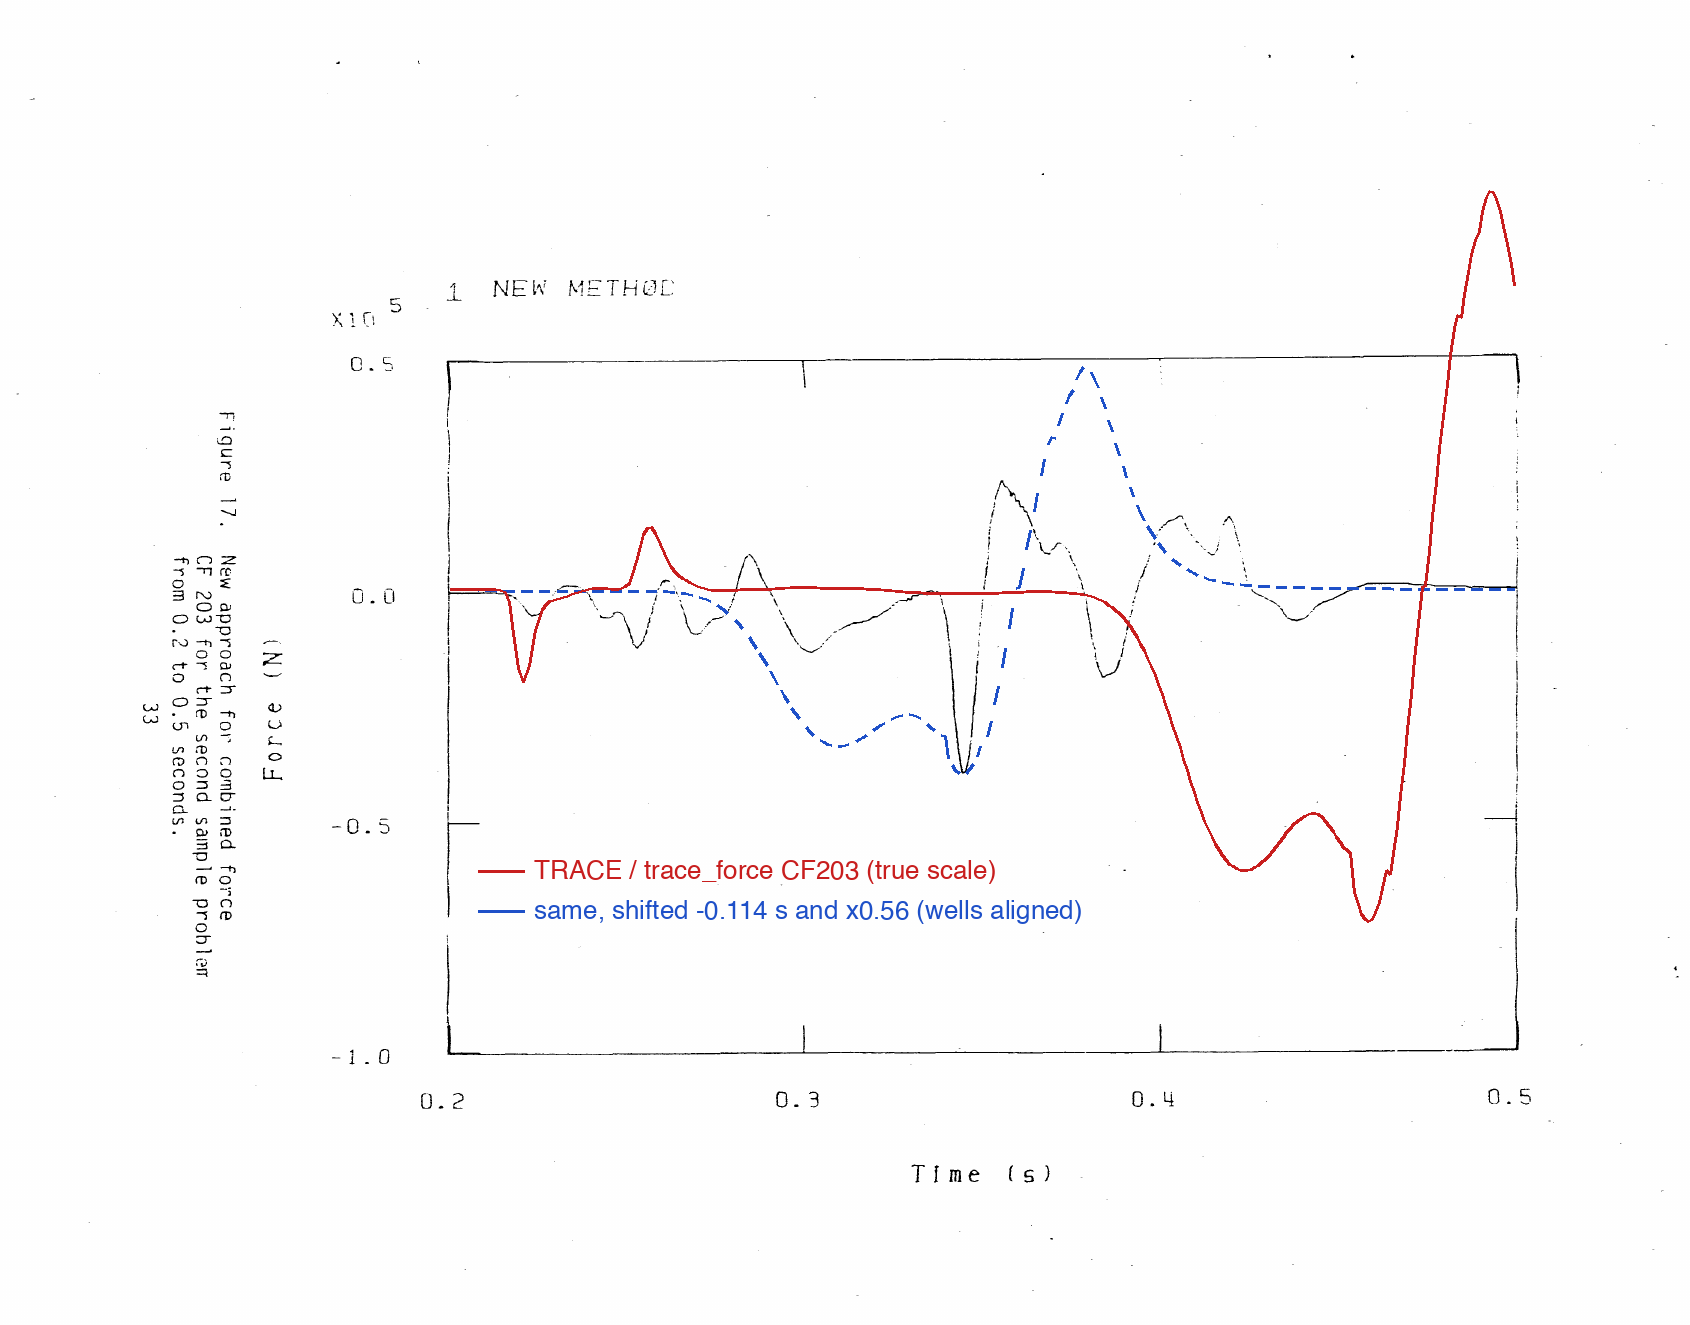
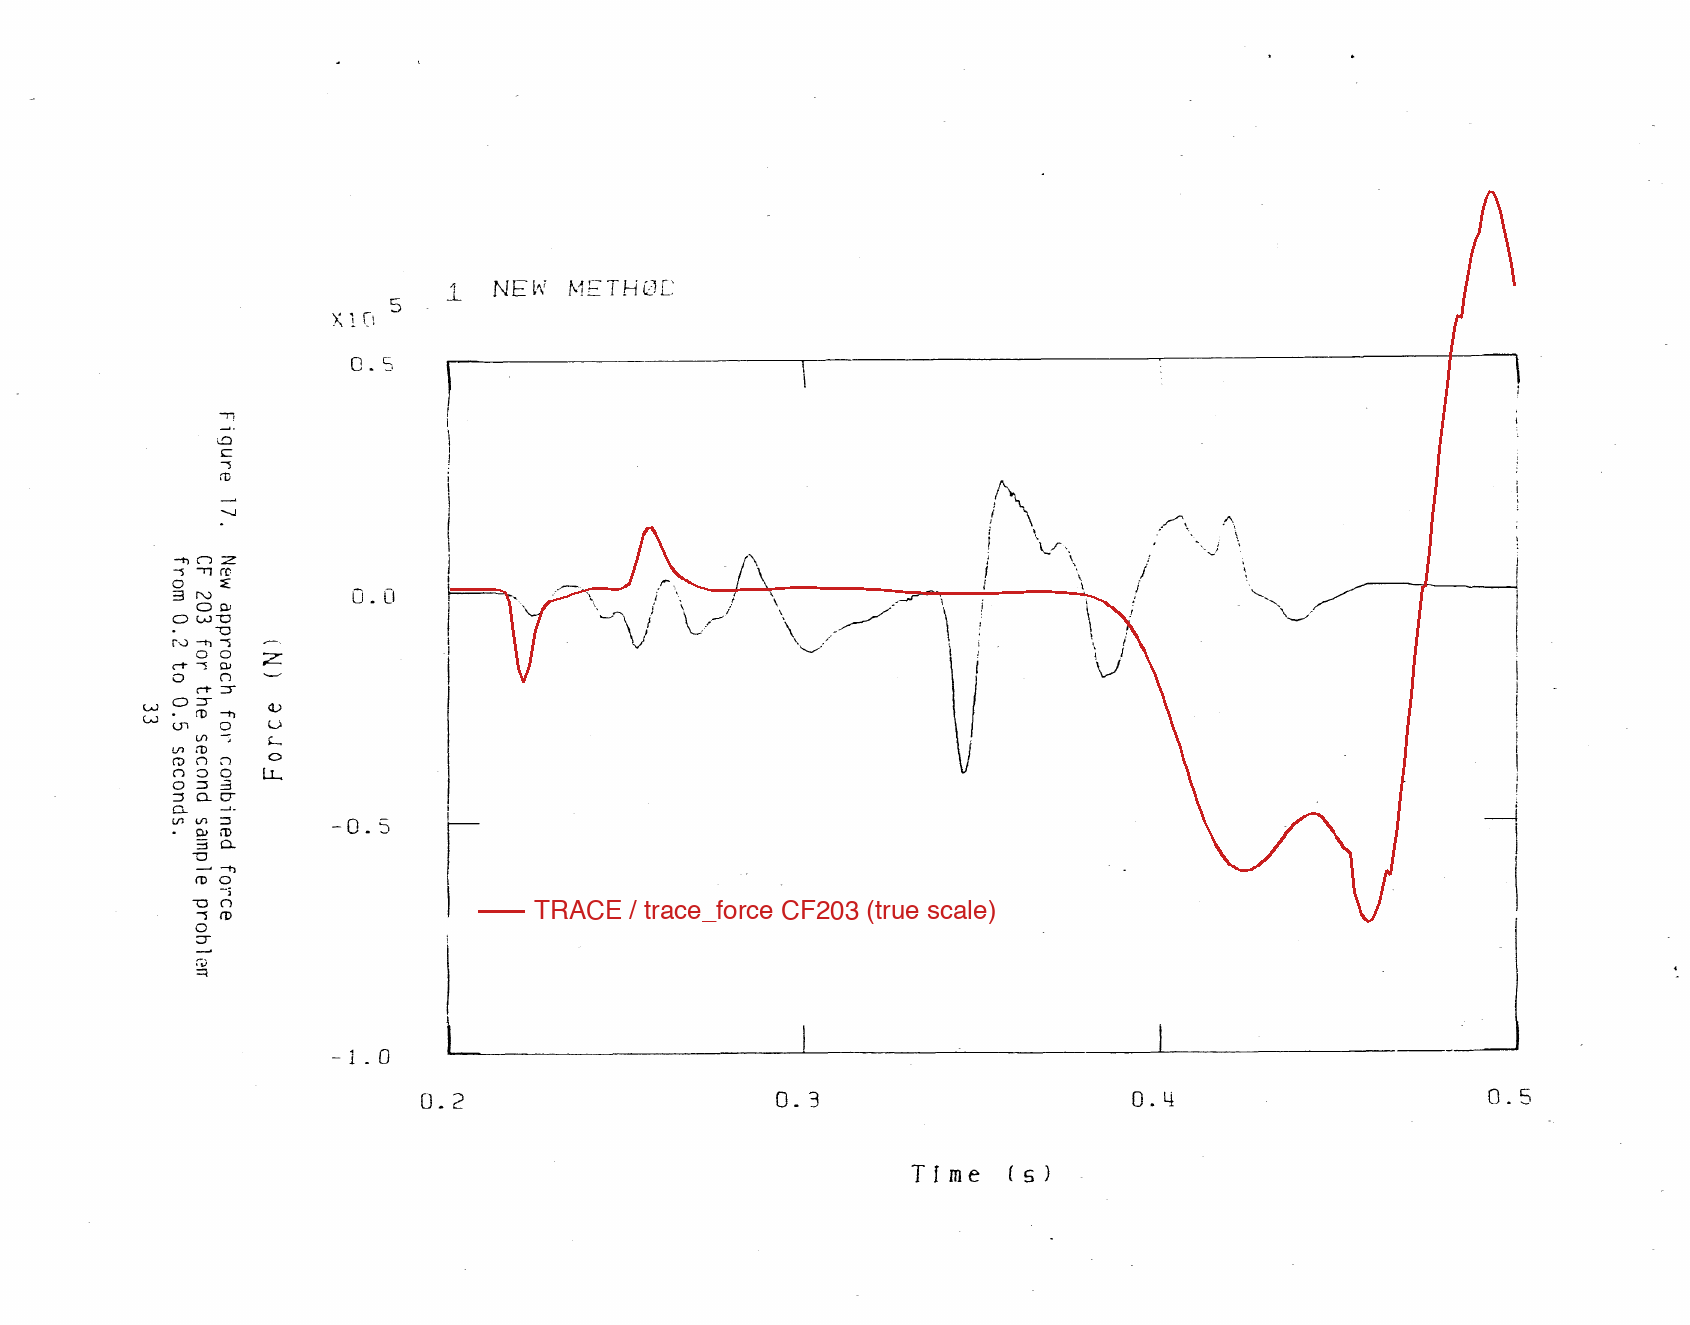
Show only the true-scale trace in the Figure 17 overlay
The shifted-and-scaled companion trace read as if the comparison
needed help. The overlay now draws the computed CF203 exactly as it
is, in true newtons on the reference's calibrated axes - the ~0.11 s
lag, the ~2x magnitudes, and the broader well are all visible
directly, with the positive kick rising past the 1990 frame.

Changed region(s): [[0.3077, 0.6498, 0.6462, 0.7117]]

diff --git a/test-validation/overlay_VAL_005W_fig17.py b/test-validation/overlay_VAL_005W_fig17.py
@@ -3,12 +3,9 @@
 
 Renders page 40 of the R5FORCE manual (report p. 33: CF203, new/Watkins
 method, second sample problem, 0.2-0.5 s), calibrates its plot frame, and
-draws the computed CF203 from VAL_005W.th on top:
-
-  - solid red  : computed force, true scale on the figure's own axes
-                 (the positive peak rises above the 1990 frame, honestly);
-  - dashed blue: the same trace shifted -0.114 s and scaled x0.557 so the
-                 deepest wells coincide - the shape comparison.
+draws the computed CF203 from VAL_005W.th on top in solid red, at true
+scale on the figure's own axes - no shifting, no scaling. The positive
+peak rises above the 1990 frame, honestly.
 
 Frame calibration was measured from the 150-dpi render: pixel box
 (448, 359)-(1516, 1052) maps to (0.2 s, +0.5E5 N)-(0.5 s, -1.0E5 N),
@@ -39,12 +36,6 @@ X0_PX, X1_PX = 448.0, 1516.0     # t = 0.2 s ... 0.5 s
 Y0_PX, Y1_PX = 359.0, 1052.0     # F = +0.5E5 N ... -1.0E5 N
 T0, T1 = 0.2, 0.5
 F0, F1 = +0.5e5, -1.0e5
-
-# Well alignment: computed deepest well -71.8 kN at 0.459 s; the figure's
-# deepest well ~-40 kN at ~0.345 s.
-SHIFT_S = -0.114
-SCALE = 40.0 / 71.8
-
 
 def render_page():
     tmp = tempfile.mkdtemp()
@@ -99,25 +90,16 @@ def main():
     data = load_cf203()
 
     raw = [(t, f) for t, f in data if T0 <= t <= T1]
-    shifted = [(t + SHIFT_S, f * SCALE) for t, f in data
-               if T0 <= t + SHIFT_S <= T1]
-
-    draw_dashed(draw, polyline(shifted), fill=(30, 80, 200), width=3)
     draw.line(polyline(raw), fill=(200, 30, 30), width=3)
 
     try:
         font = ImageFont.truetype("/System/Library/Fonts/Helvetica.ttc", 26)
     except OSError:
         font = ImageFont.load_default()
-    lx, ly = X0_PX + 30, Y1_PX - 190
+    lx, ly = X0_PX + 30, Y1_PX - 150
     draw.line([(lx, ly + 9), (lx + 46, ly + 9)], fill=(200, 30, 30), width=3)
     draw.text((lx + 56, ly - 4), "TRACE / trace_force CF203 (true scale)",
               fill=(200, 30, 30), font=font)
-    draw_dashed(draw, [(lx, ly + 49), (lx + 46, ly + 49)],
-                fill=(30, 80, 200), width=3)
-    draw.text((lx + 56, ly + 36),
-              "same, shifted -0.114 s and x0.56 (wells aligned)",
-              fill=(30, 80, 200), font=font)
 
     img.save(OUT)
     print(f"wrote {OUT}")

diff --git a/test-validation/validation_results_report.md b/test-validation/validation_results_report.md
@@ -313,11 +313,12 @@ the slug enters the down leg, sharp positive kick as it exits, smooth decay:
 
 Superimposed directly on the manual's Figure 17
 ([overlay_VAL_005W_fig17.py](overlay_VAL_005W_fig17.py) regenerates it):
-red is the computed CF203 at true scale on the 1990 axes; blue is the same
-trace shifted $-0.114\text{ s}$ and scaled $\times 0.56$ so the deepest wells
-coincide. The pull-kick-decay sequence lands on the reference's; the computed
-well is broader because the calibrated small throat throttles the slug where
-the reference's passed in $\sim 10\text{ ms}$.
+the computed CF203 at true scale on the 1990 axes - no shifting, no scaling.
+The same pull-kick-decay sequence appears $\sim 0.11\text{ s}$ later and
+$\sim 2\times$ larger than the reference trace, with the positive kick rising
+past the reference frame; the computed well is broader because the calibrated
+small throat throttles the slug where the reference's passed in
+$\sim 10\text{ ms}$.
 
 ![Computed CF203 superimposed on manual Figure 17](VAL_005W_fig17_overlay.png)
 
